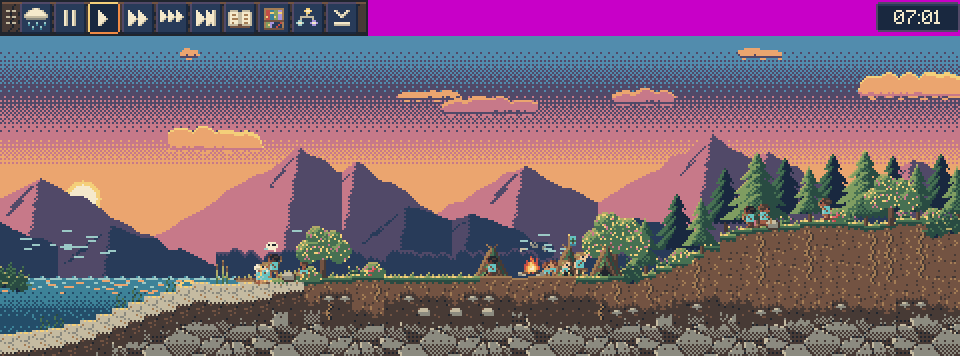
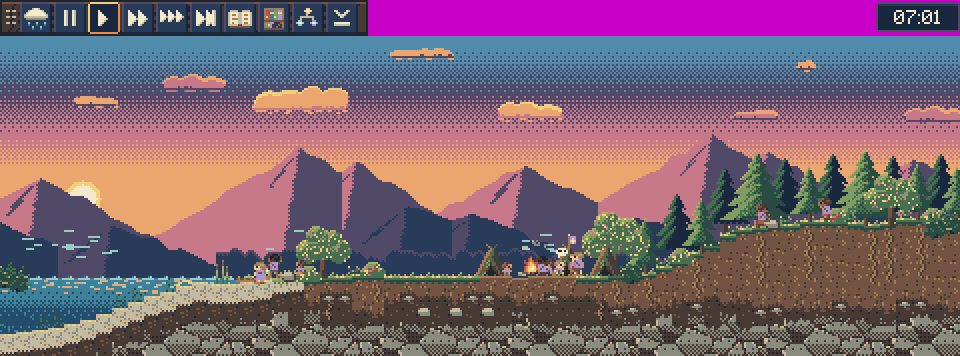
Jogo: RELATORIO do .exe 0.1.1 (19 itens OK no executável) e o verificar.ps1 aceita o gesto em qualquer x

diff --git a/jogo/RELATORIO.md b/jogo/RELATORIO.md
@@ -50,6 +50,17 @@ Tarefas 1 a 5 do briefing `sessoes/fase1-b-apresentacao.md`. Este relatório cob
 - **O ícone da bandeja:** não é clicado pelo script, porque no Windows 11 ele fica no menu "^", em posição variável. O caminho de volta pela barra de tarefas e pelo Ctrl+Alt+H foi testado; o clique no ícone, à mão, em rodadas anteriores.
 - **Correção achada na passada:** o `.exe` de release só gravava o `godot.log` ao sair. Numa falha, o log que o amigo mandaria ficava vazio. Agora `run/flush_stdout_on_print=true`; o jogo imprime pouco, então o custo é desprezível.
 
+**O .exe 0.1.1 (auditoria 12 da C).** `builds/Simulador de vida.exe` (versão 0.1.1.0 no arquivo) e o COMO JOGAR 0.1.1.
+- **V1:** o convite no chão já estava ligado desde `55c4b1e`. A auditoria usou a main anterior a ele.
+- **V2:** no mundo que nunca teve gente:
+  - entre 4 e 8 s aparecem um cervo, no capim aberto antes da floresta, e uma garça, na margem; no inverno, um coelho;
+  - os bandos de pássaros ficam 3 vezes mais frequentes até o primeiro povo (`capturas/mundo-vazio-bichos.png`).
+- **V4:** sobre o mundo vazio, a dica junto do cursor diz "Clique para fazer nascer um povo aqui" (`capturas/mundo-vazio-dica.png`).
+- **A crônica de um capítulo só:** o índice some e o livro fica centrado (`capturas/cronica-um-capitulo.png`).
+- **`verificar.ps1 -Executavel`:** os 19 itens passaram na terceira rodada. Nas duas anteriores, houve falhas de outro tipo:
+  - na primeira, o gesto aconteceu, mas em x = 291, e o teste exigia x = 300 exatos. Agora aceita qualquer x;
+  - na segunda, o clique sintético que escolhe o raio se perdeu, e os itens seguintes caíram em cascata. É a mesma instabilidade do primeiro clique depois de trocar o foco, já registrada no item 3.
+
 **O .exe 0.1.0 final** (main com o 84ae9d7 da A, o ícone novo e o convite da C): `builds/Simulador de vida.exe` e `builds/COMO JOGAR.txt`.
 - `verificar.ps1 -Executavel` (com `--com-povo`): os 19 itens passaram.
 - Aberto como o jogo de verdade:
